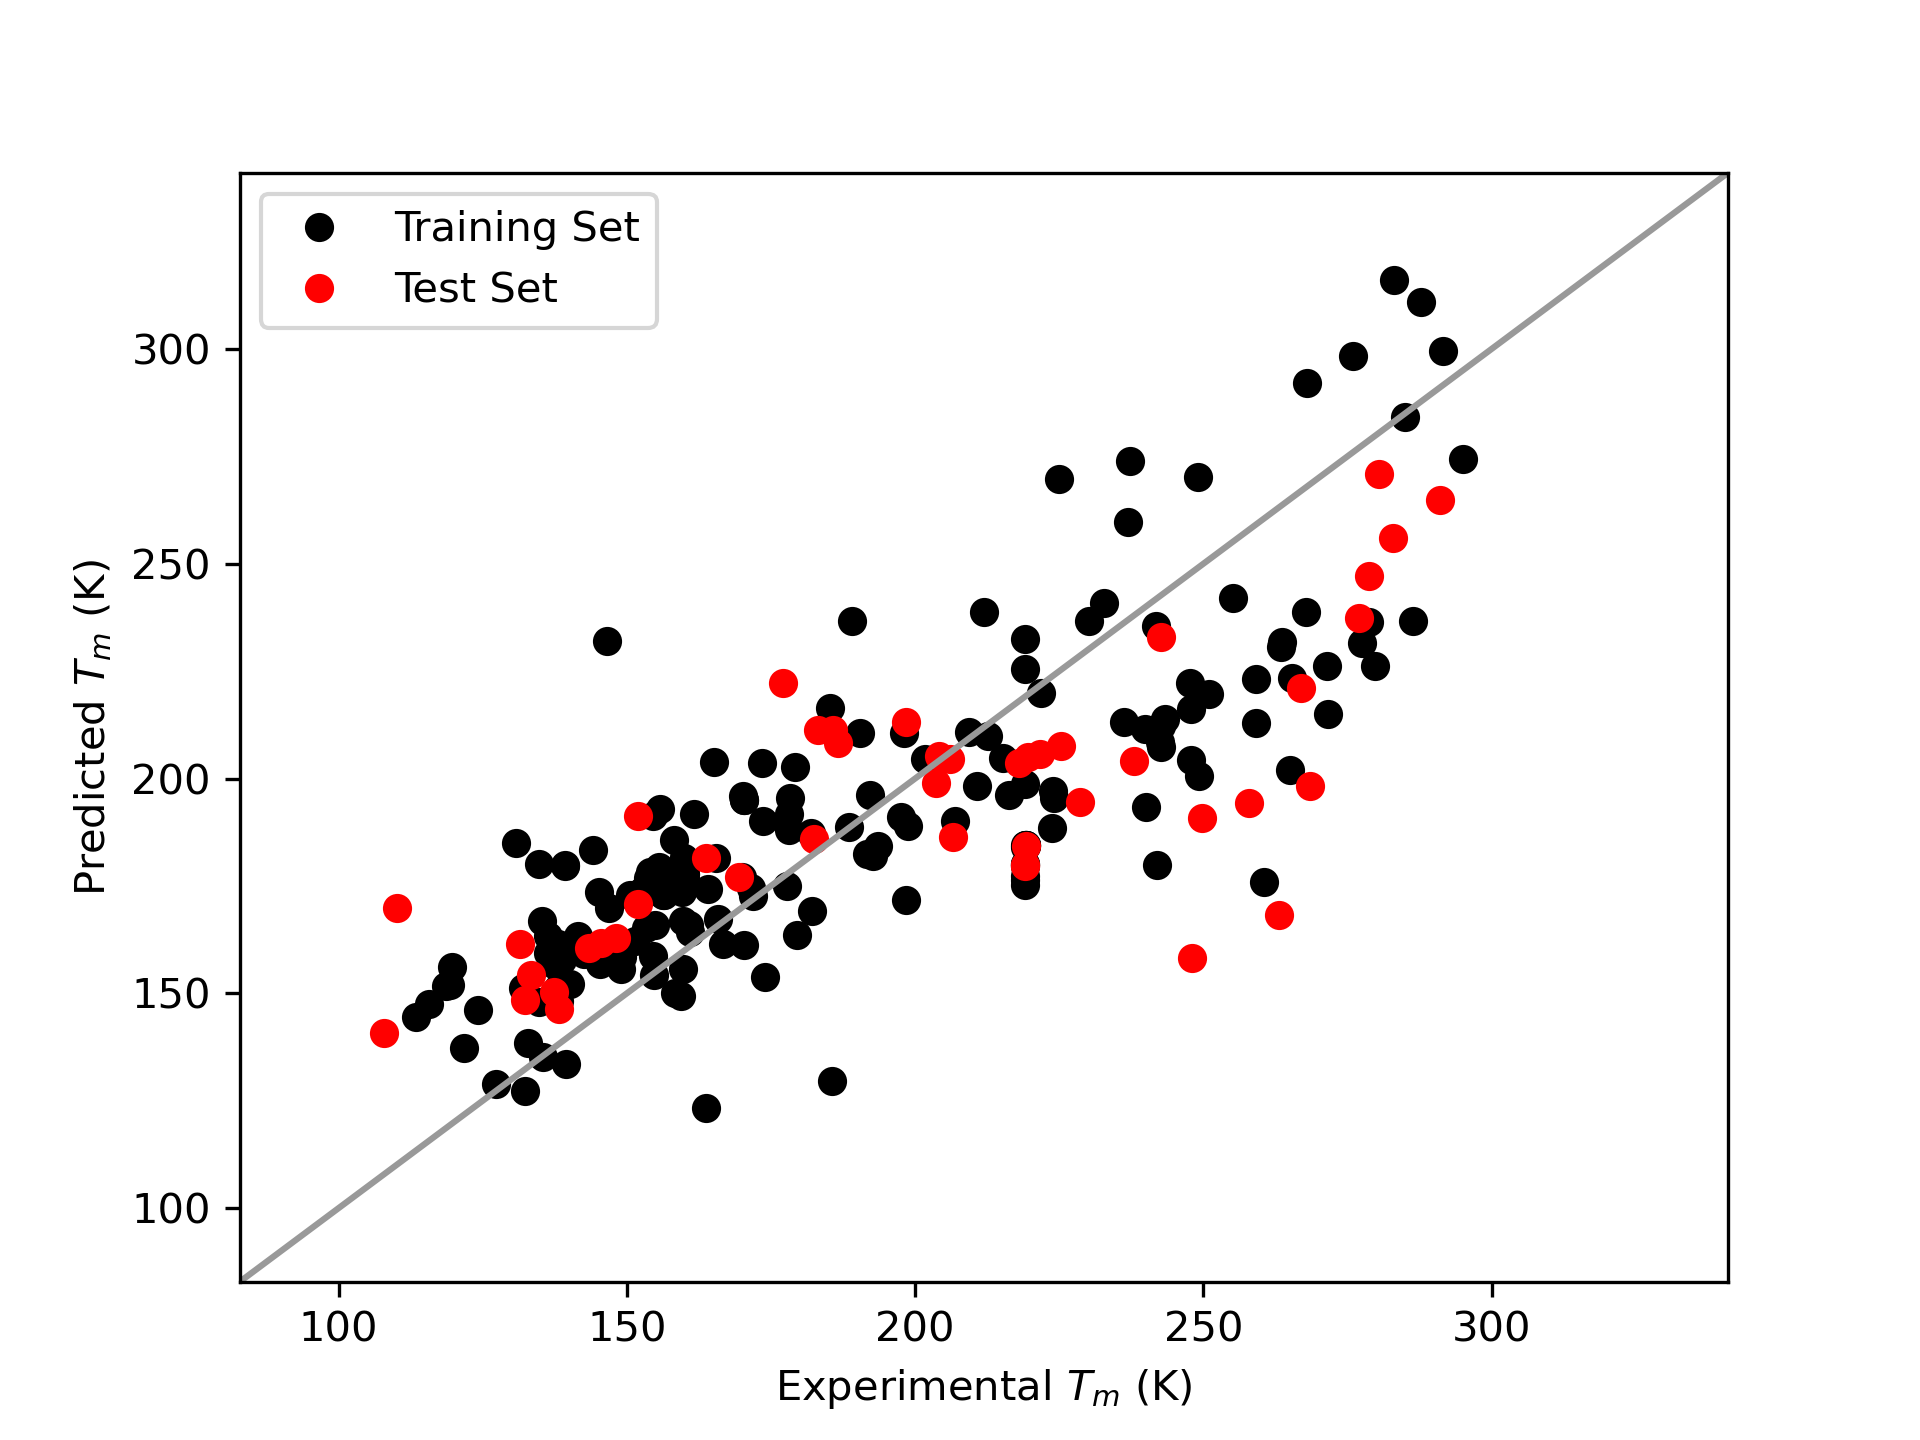
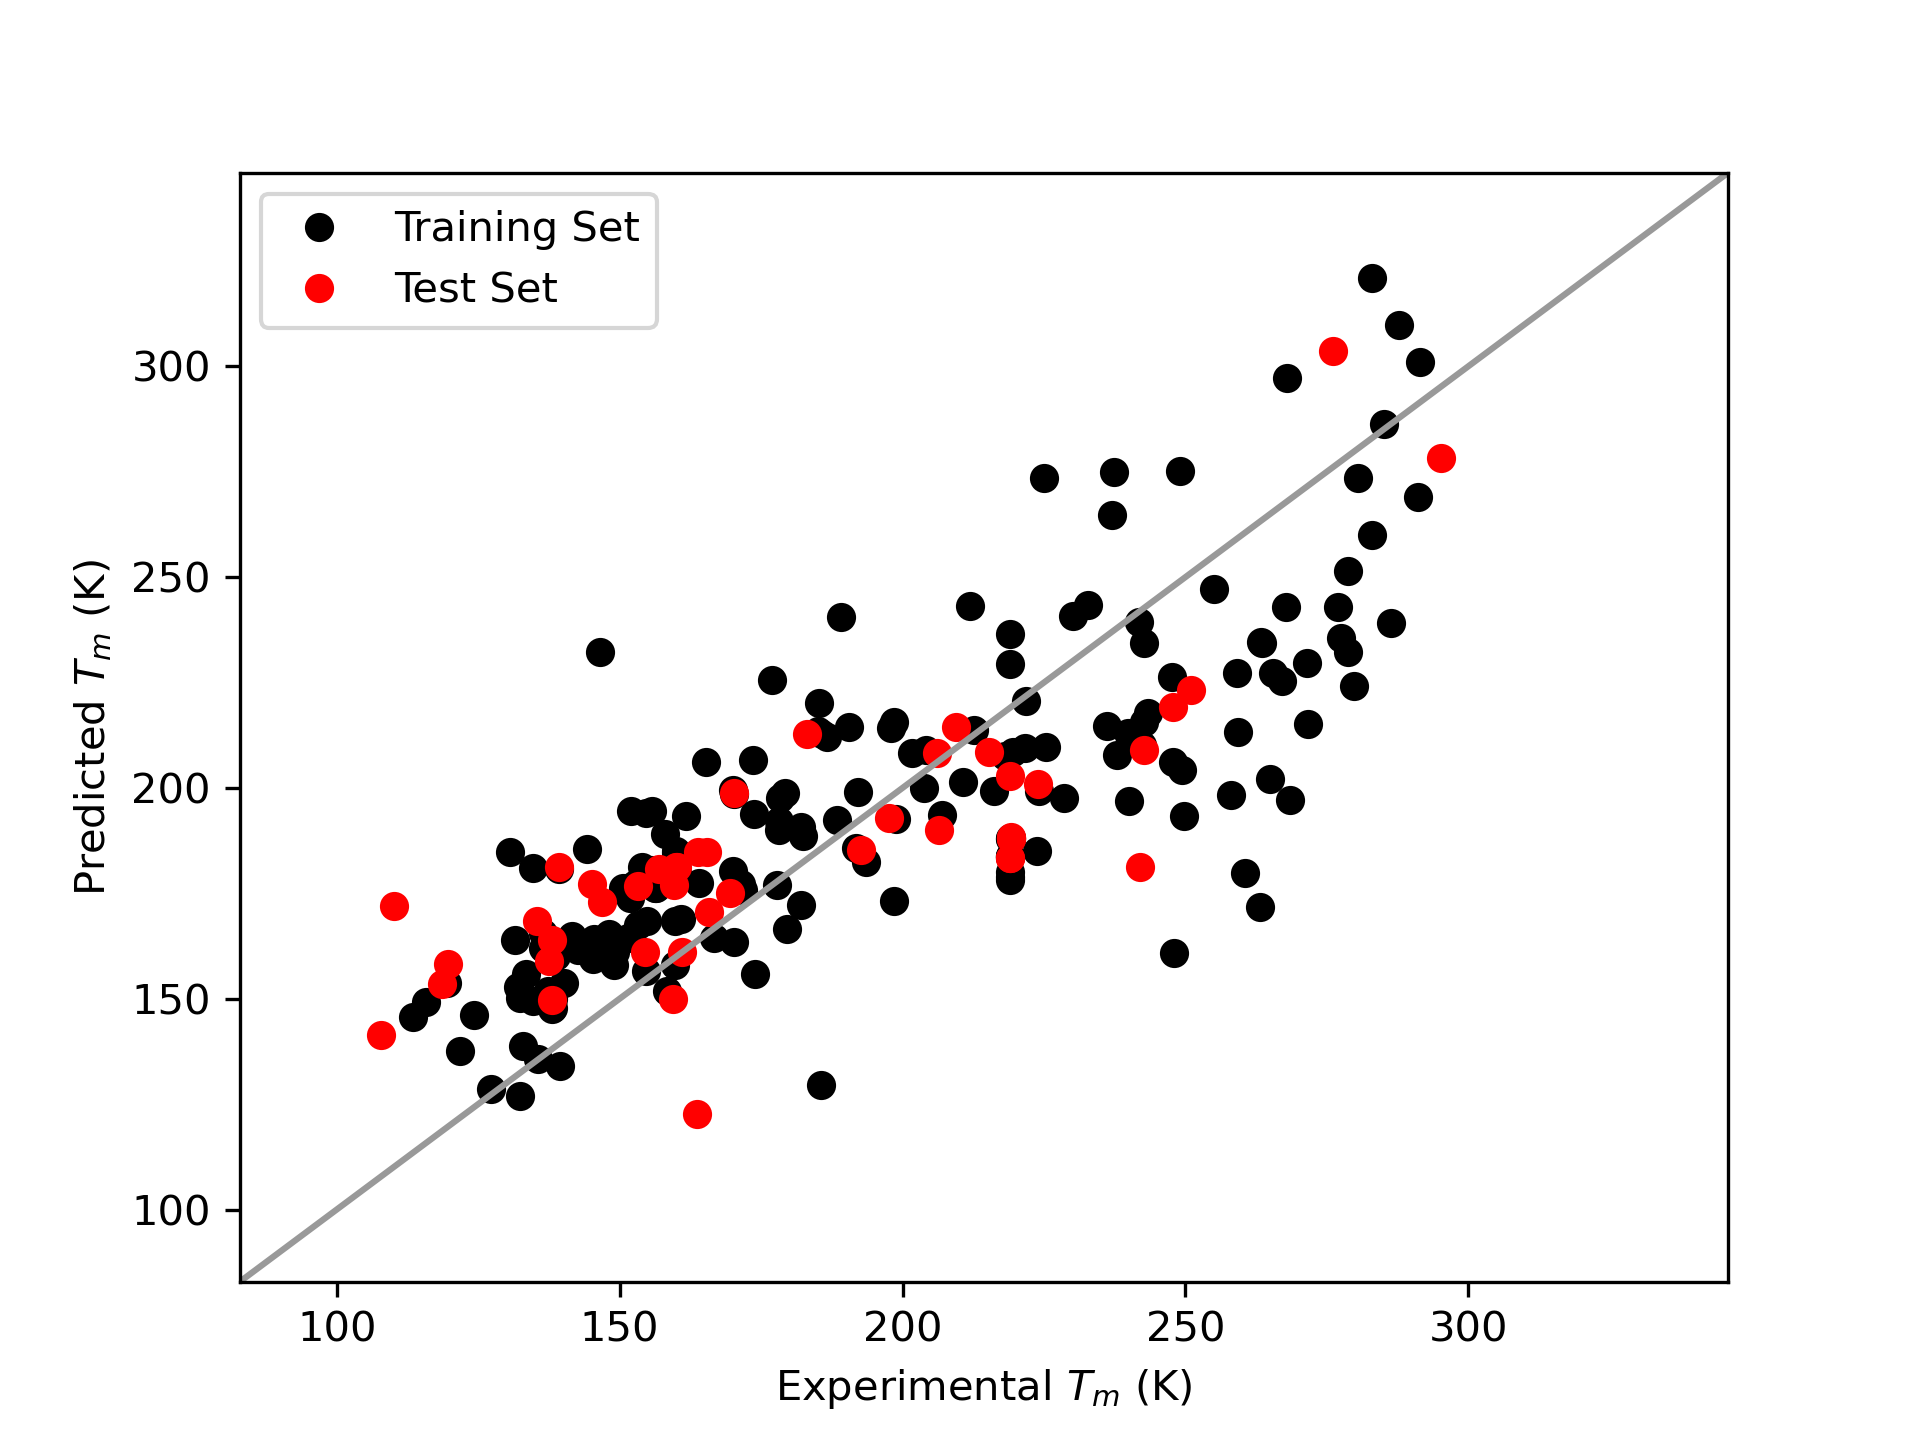
added experimental section for thermo model

diff --git a/mp_prediction_paper.py b/mp_prediction_paper.py
@@ -895,11 +895,9 @@ else:
 r'''
 We note that there appears to be a systematic underestimation of the melting points of the higher $T_m$ and an overestimate of the melting points of the lower $T_m$ molecules. We attribute this systematic error to our model for enthalpy. By using all of the molecules in the dataset to generate one set of fitted parameters, we are effectively assuming that all molecules have the same types of intermolecular interactions. However, this is unlikely true, as the higher melting molecules most likely have stronger intermolecular interactions (perhaps hydrogen bonding), and thus should have higher enthalpies of melting. By combining different types of quinones molecules in this way, we are essentially taking an intermediate strength of intermolecular interaction and applying it to all the molecules in the dataset, which results in the over- and under- estimation that we see in our data. This was verified by analyzing the types of molecules on both ends of the spectrum to see if there were obvious reasons why the higher melting compounds might have stronger interactions and the lower melting compounds would have weaker interactions.
 
-
-
-Upon observing the similarities between the parameters for the quinone and hydroquinone models, we combined both into a single dataset and fit a new model - the combined Quinone+Hydroquinone dataset. 
+Upon observing the difficulties in maintaining a consistent sign for the eccentricity parameters, which we suspected was due to the relative unimportance of it and the small dataset, we decided to combine both the quinone and hydroquinone datasets into a single dataset and fit a model to this larger dataset (~200 molecules). 
 '''
-
+# Combined Quinone + Hydroquinone Plot
 MAKING_NEW_PLOTS=True
 if MAKING_NEW_PLOTS:
     ## EDIT BELOW HERE
@@ -993,7 +991,9 @@ All of the data for this method was downloaded from the Reaxys database online (
 Once all the compounds were downloaded we had to further process the data for molecules that had multiple reported melting points. The Tietjen-Moore outlier test was employed to determine whether there were any outliers in the set of melting point data for each molecule, and remove outliers if they did exist. This test requires an initial hypothesis for how many outliers exist in the dataset, so we incrementally increased the hypothesized number of outliers until the range was less than 15 C, or we had thrown out more than half of the melting points in the set. If we had to eliminate more than half the melting points (outlier test failed), we removed that molecule from our dataset.
 
 ### Thermodynamics-Based Model
+To build our quinone and hydroquinone datasets, we used crystal structure data acquired from the Cambridge Crystallographic Data Centre (CCDC) to calculate the molecular volume for each compound. Molecular symmetry, torsional angles, and eccentrity values were calculated by visual inspection of the 2D molecular structure. The experimental melting points recorded in the CCDC database were used in our dataset, if they were reported. If the melting points were not reported in the CCDC, we found the reported melting points for the molecules in literature (sources listed in the database in SI). A total of 94 quinones, 94 hydroquinones, and 224 hydrocarbons were used in the analysis. 
 
+We wrote a script that allowed us to specify any functional form of the model that we wanted to test on our datasets. This allowed us to test several different forms of the model to determine what enthalpy relation had the most predictive power. The function ``optimize.curve\textunderscore fit" in the python library ``scipy" was used to calculate values for the parameters in our model, given reasonable starting guesses. All datasets were randomly split into a training and test set, and the model parameters were fitted using only the training set. The resulting equation was then used to calculate the predicted melting points for both the training and test sets. Both the training and test set errors were calculated independently - both the average absolute error and the root mean square errors were calculated.
 
 '''
 
